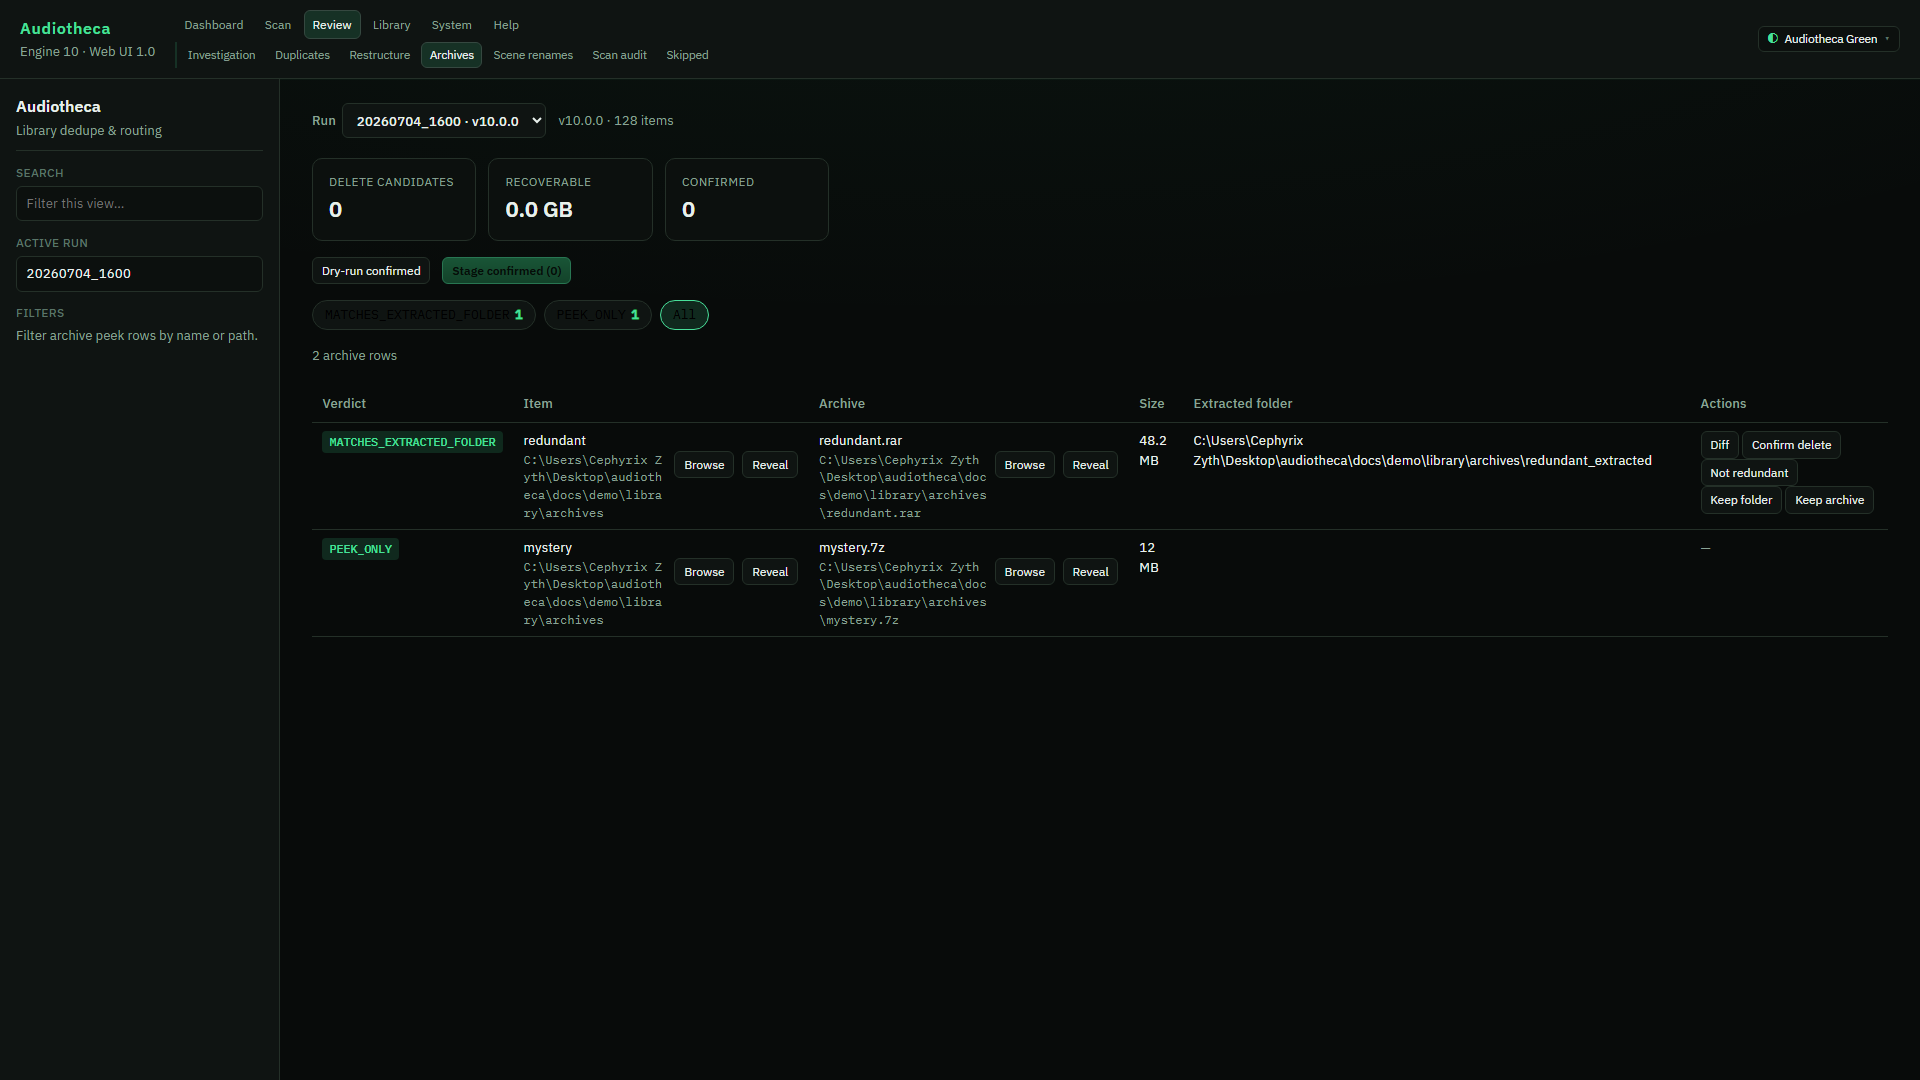
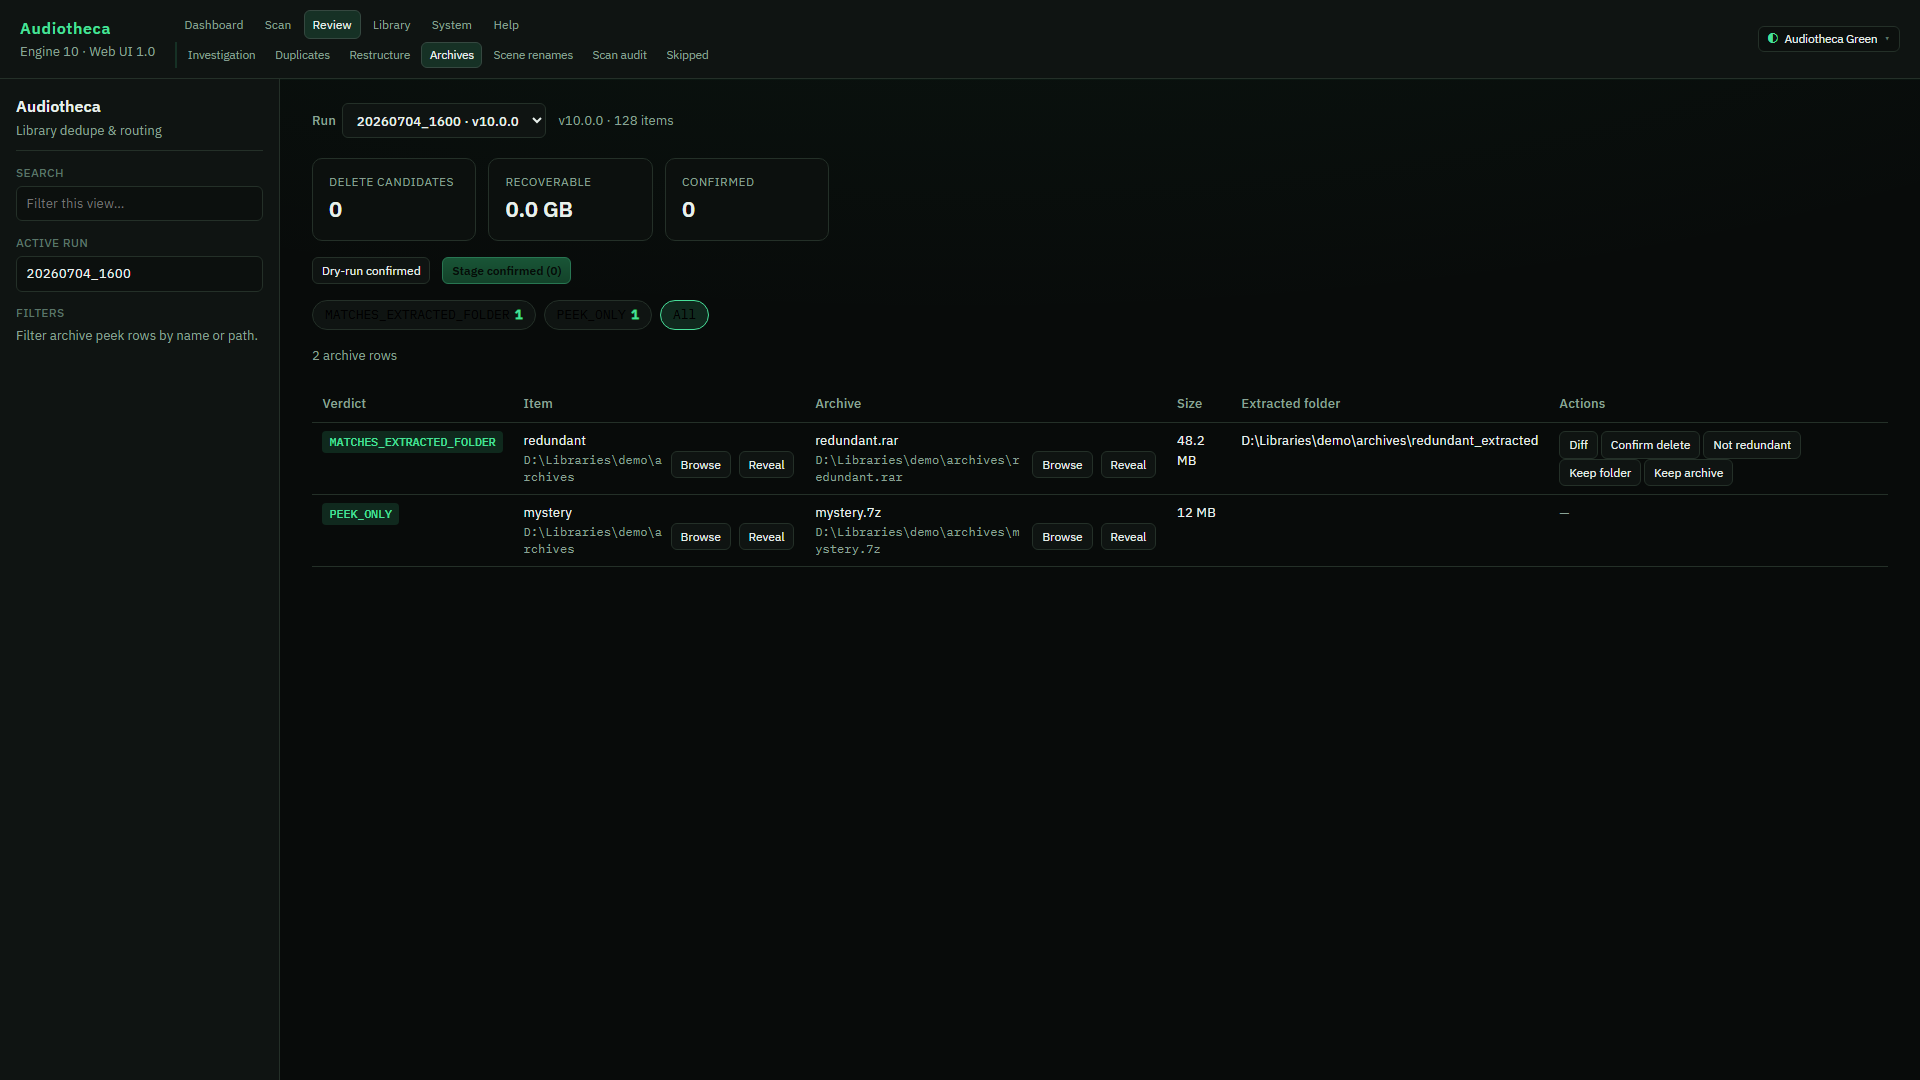
Add GHCR Docker publish workflow and capture Help screenshots.
Publish all-in-one, API, and UI images to ghcr.io on v* tags; document pull instructions in README. Capture scene-renames, scan-audit, and skipped-files Help assets with richer demo seed data.

Changed region(s): [[0.25, 0.3972, 0.625, 0.5806], [0.5938, 0.3667, 0.9688, 0.4889], [0.1562, 0.4583, 0.2188, 0.5194]]

diff --git a/scripts/capture_doc_assets.py b/scripts/capture_doc_assets.py
@@ -388,6 +388,44 @@ def seed_reports() -> None:
     ]
     _write_csv(SEED_REPORTS / f"Scene_Rename_Plan_{STAMP}.csv", scene_headers, scene_rows)
 
+    _write_csv(
+        SEED_REPORTS / f"Scan_Failures_{STAMP}.csv",
+        ["Section", "Item Name", "Full Path", "Error"],
+        [
+            [
+                "a",
+                "LockedPack",
+                _lib_path("a", "UnknownVendor", "LockedPack"),
+                "Access is denied",
+            ],
+        ],
+    )
+    _write_csv(
+        SEED_REPORTS / f"Coverage_Gaps_{STAMP}.csv",
+        ["Section", "Path", "Name", "Reason", "Detail"],
+        [
+            [
+                "archives",
+                _lib_path("archives", "loose.zip"),
+                "loose.zip",
+                "LOOSE_ARCHIVE",
+                "Top-level archive outside item folder",
+            ],
+        ],
+    )
+    _write_csv(
+        SEED_REPORTS / f"Cache_Hits_{STAMP}.csv",
+        ["Section", "Path", "Name", "Mtime"],
+        [
+            [
+                "a",
+                _lib_path("a", "AcmeAudio", "SynthOne"),
+                "SynthOne",
+                "1710000000.0",
+            ],
+        ],
+    )
+
     (SEED_REPORTS / f"Skip_Phase_Impact_{STAMP}.json").write_text(
         json.dumps({"archive_peek": {"count": 1, "detail": "demo skip impact"}}),
         encoding="utf-8",
@@ -757,7 +795,7 @@ def _tab_label(tab_id: str) -> str:
         "archives": "Archives",
         "scene-renames": "Scene renames",
         "scan-audit": "Scan audit",
-        "skipped": "Skipped files",
+        "skipped": "Skipped",
         "space-recovery": "Space recovery",
         "security": "Security",
         "environment": "Environment",

diff --git a/README.md b/README.md
@@ -371,18 +371,33 @@ python scripts/library_probe.py                      # Lightweight library stats
 
 Engine **10.0.0** · Web UI / API **1.0.0**
 
+### Pull from GitHub Container Registry
+
+Release tags (`v*`) publish three images to GHCR (replace `1.0.1` with your release version):
+
+| Image | Use |
+| --- | --- |
+| `ghcr.io/chrisjrovira/audiotheca:1.0.1` | All-in-one — API + nginx UI (Unraid Add Container) |
+| `ghcr.io/chrisjrovira/audiotheca-api:1.0.1` | API / engine only (Docker Compose `api` service) |
+| `ghcr.io/chrisjrovira/audiotheca-ui:1.0.1` | Static UI only (Docker Compose `ui` service) |
+
+Each release tag also publishes `:latest` on the all-in-one, API, and UI images.
+
+```bash
+# Log in once (read:packages is enough to pull public images)
+echo "$GITHUB_TOKEN" | docker login ghcr.io -u YOUR_GITHUB_USER --password-stdin
+
+docker pull ghcr.io/chrisjrovira/audiotheca:1.0.1
+```
+
 **All-in-one** — API + nginx UI in a single container (Unraid Add Container template):
 
 ```bash
-# From repo root
-bash deploy/unraid/build-image.sh
-# tags: audiotheca/unraid:1.0.0, audiotheca/unraid:latest
-
 docker run -d --name audiotheca \
   -p 4210:80 -p 4211:8787 \
   -v /path/to/appdata:/data \
   -v /path/to/library:/library:ro \
-  audiotheca/unraid:1.0.0
+  ghcr.io/chrisjrovira/audiotheca:1.0.1
 ```
 
 Open `http://localhost:4210`. Appdata holds reports, scan cache, and the API token (`AUDIOTHECA_HOME=/data`).
@@ -392,8 +407,11 @@ Open `http://localhost:4210`. Appdata holds reports, scan cache, and the API tok
 ```bash
 cd deploy/unraid
 cp .env.example .env   # set LIBRARY_HOST_PATH to your library on the host
+# Optional: set image: ghcr.io/chrisjrovira/audiotheca-api:1.0.1 in compose overrides
 docker compose up -d --build
 ```
+
+Build locally instead: `bash deploy/unraid/build-image.sh` (tags `audiotheca/unraid:1.0.0`, `:latest`).
 
 On Windows with Docker Desktop: `.\deploy\unraid\start-local.ps1` (after editing `.env`).
 
